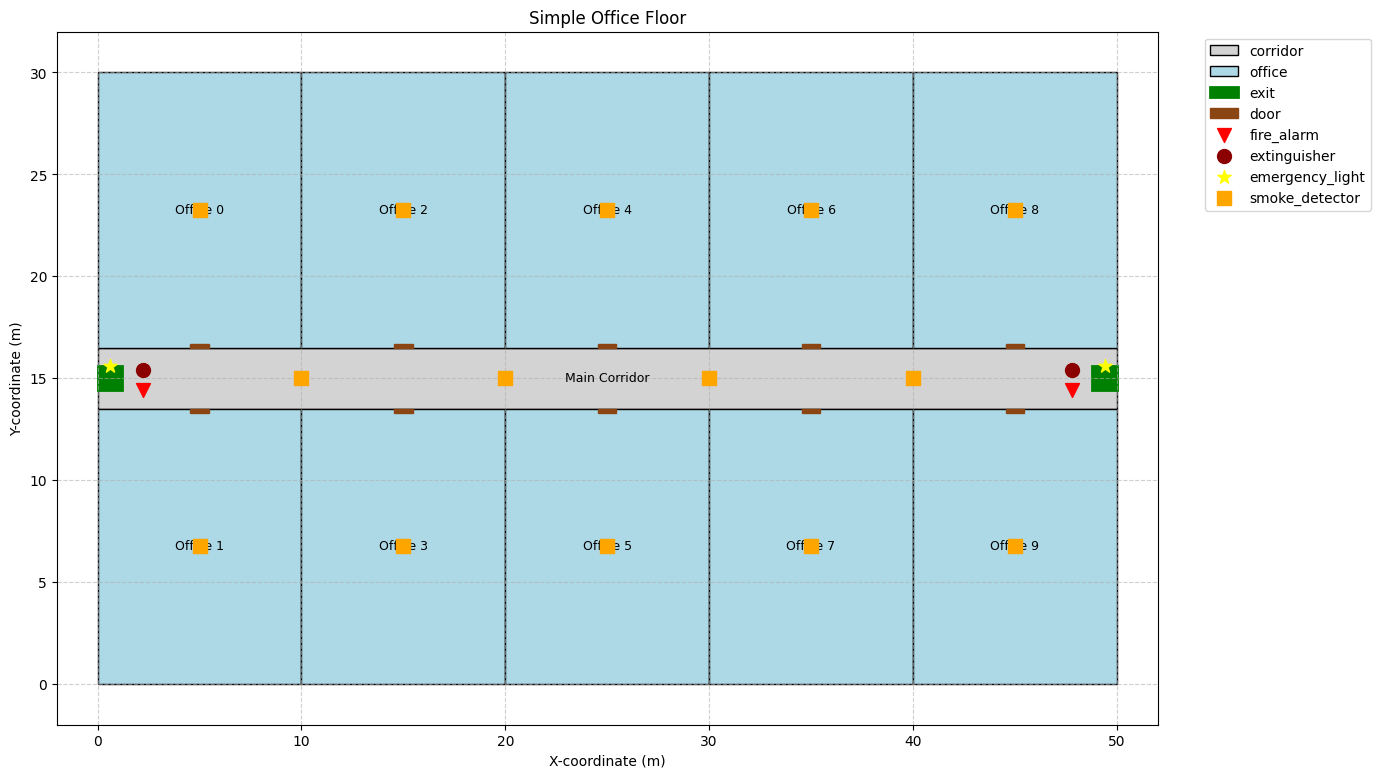
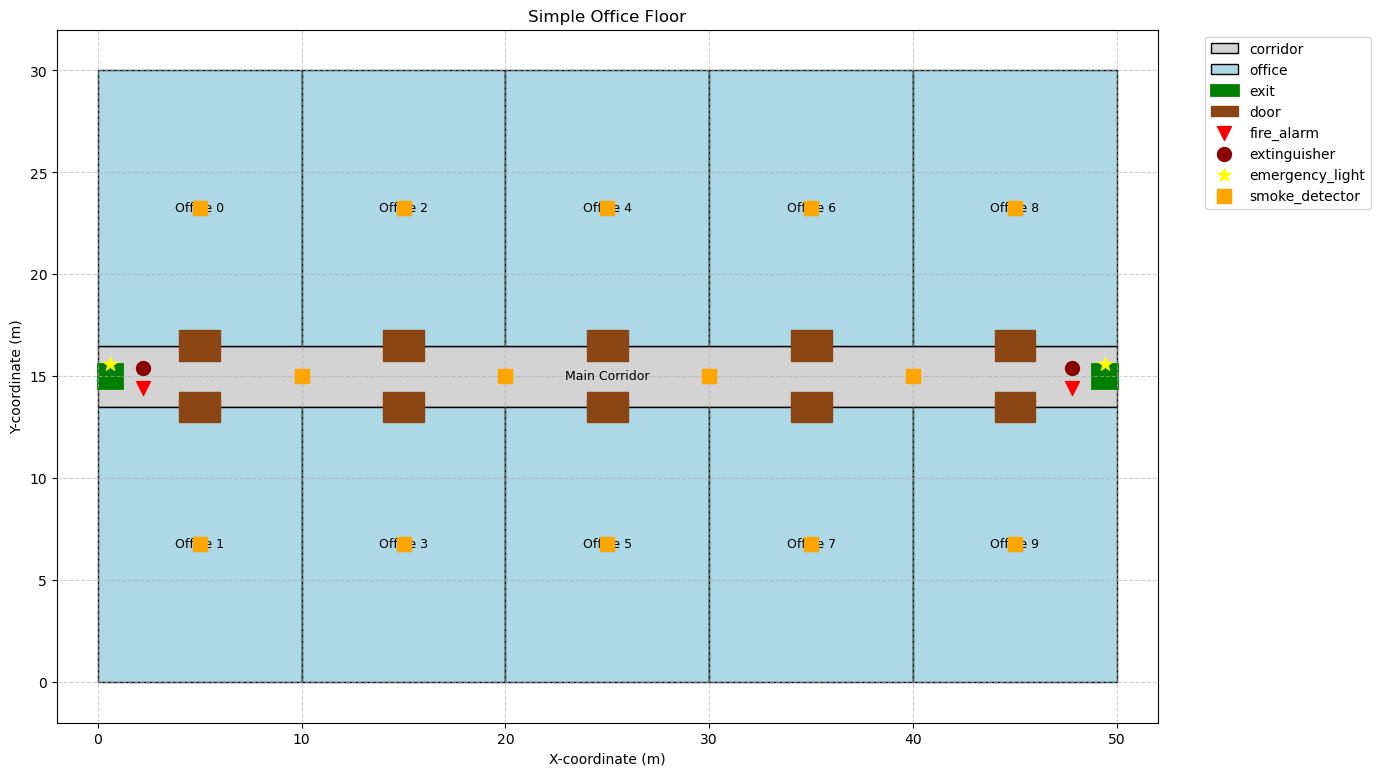
32 direction A* exit finding, basic office map layout

diff --git a/path_visualizer.py b/path_visualizer.py
@@ -1,0 +1,213 @@
+import json
+import matplotlib.pyplot as plt
+import matplotlib.patches as patches
+import heapq
+import math
+import time
+
+
+class Node:
+    """A node class for A* pathfinding"""
+    def __init__(self, parent=None, position=None):
+        self.parent = parent
+        self.position = position
+        self.g = 0
+        self.h = 0
+        self.f = 0
+
+    def __eq__(self, other):
+        return self.position == other.position
+
+    def __lt__(self, other):
+        return self.f < other.f
+
+    def __repr__(self):
+        return f"{self.position} - g: {self.g:.2f} h: {self.h:.2f} f: {self.f:.2f}"
+
+
+def generate_32_directions():
+    """Generates 32 evenly spaced direction offsets around a circle."""
+    directions = []
+    for i in range(32):
+        angle = 2 * math.pi * i / 32
+        dx = round(math.cos(angle))
+        dy = round(math.sin(angle))
+        if (dx, dy) != (0, 0) and (dx, dy) not in directions:
+            directions.append((dx, dy))
+    return directions
+
+
+DIRECTIONS_32 = generate_32_directions()
+
+
+def a_star_search(grid, start, end):
+    """Returns a list of tuples as a path from the given start to the given end in the given grid."""
+
+    start_node = Node(None, start)
+    end_node = Node(None, end)
+
+    open_list = []
+    heapq.heappush(open_list, start_node)
+    closed_list = set()
+    g_costs = {start: 0}
+
+    while open_list:
+        current_node = heapq.heappop(open_list)
+
+        if current_node.position in closed_list:
+            continue
+        closed_list.add(current_node.position)
+
+        if current_node == end_node:
+            path = []
+            current = current_node
+            while current is not None:
+                path.append(current.position)
+                current = current.parent
+            return path[::-1]
+
+        (x, y) = current_node.position
+
+        for dx, dy in DIRECTIONS_32:
+            nx, ny = x + dx, y + dy
+
+            if nx < 0 or ny < 0 or nx >= len(grid) or ny >= len(grid[0]):
+                continue
+            if grid[nx][ny] != 0:
+                continue
+
+            move_cost = math.sqrt(dx*dx + dy*dy)
+            new_g_cost = g_costs.get(current_node.position, float('inf')) + move_cost
+
+            if (nx, ny) not in g_costs or new_g_cost < g_costs[(nx, ny)]:
+                g_costs[(nx, ny)] = new_g_cost
+                h_cost = math.dist((nx, ny), end_node.position)
+                f_cost = new_g_cost + h_cost
+
+                neighbor = Node(current_node, (nx, ny))
+                neighbor.g = new_g_cost
+                neighbor.h = h_cost
+                neighbor.f = f_cost
+
+                heapq.heappush(open_list, neighbor)
+
+    return None
+
+
+def create_grid_from_layout(layout, resolution=20):
+    """Creates a grid representation of the layout for pathfinding."""
+    width = int(layout['floor_dimensions'][0] * resolution)
+    height = int(layout['floor_dimensions'][1] * resolution)
+    grid = [[1 for _ in range(height)] for _ in range(width)]
+
+    for room in layout['rooms']:
+        if room['type'] == 'corridor':
+            x, y = room['position']
+            w, h = room['size']
+            x, y, w, h = int(x*resolution), int(y*resolution), int(w*resolution), int(h*resolution)
+            for i in range(w):
+                for j in range(h):
+                    if 0 <= x+i < width and 0 <= y+j < height:
+                        grid[x+i][y+j] = 0
+
+    for room in layout['rooms']:
+        if room['type'] == 'office':
+            x, y = room['position']
+            w, h = room['size']
+            x, y, w, h = int(x*resolution)+1, int(y*resolution)+1, int(w*resolution)-2, int(h*resolution)-2
+            for i in range(w):
+                for j in range(h):
+                    if 0 <= x+i < width and 0 <= y+j < height:
+                        grid[x+i][y+j] = 0
+
+    if 'doors' in layout:
+        for door in layout['doors']:
+            x, y = door['position']
+            w, h = door['size']
+            x, y, w, h = int(x*resolution), int(y*resolution), int(w*resolution), int(h*resolution)
+            for i in range(w):
+                for j in range(h):
+                    if 0 <= x+i < width and 0 <= y+j < height:
+                        grid[x+i][y+j] = 0
+
+    return grid
+
+
+def visualize_paths(data_file='simple_office.json', resolution=5):
+    """Visualizes the office layout with people and their shortest paths to an exit."""
+    print("Starting visualization process...")
+    start_time = time.time()
+
+    with open(data_file, 'r') as f:
+        layout = json.load(f)
+    print(f"Loaded layout data in {time.time() - start_time:.2f} seconds.")
+
+    print(f"Creating grid with resolution: {resolution}...")
+    grid_start_time = time.time()
+    grid = create_grid_from_layout(layout, resolution)
+    print(f"Grid created in {time.time() - grid_start_time:.2f} seconds.")
+
+    fig, ax = plt.subplots(figsize=(15, 9))
+    ax.set_title(f"{layout['name']} - Evacuation Paths (32-direction A*)")
+    ax.set_xlabel("X-coordinate (m)")
+    ax.set_ylabel("Y-coordinate (m)")
+    floor_width, floor_height = layout['floor_dimensions']
+    ax.set_xlim(-2, floor_width + 2)
+    ax.set_ylim(-2, floor_height + 2)
+    ax.set_aspect('equal', adjustable='box')
+
+    room_colors = {'office': 'lightblue', 'corridor': 'lightgrey'}
+
+    for room in layout['rooms']:
+        x, y = room['position']
+        w, h = room['size']
+        color = room_colors.get(room['type'], 'lightcyan')
+        rect = patches.Rectangle((x, y), w, h, linewidth=1, edgecolor='black', facecolor=color)
+        ax.add_patch(rect)
+        ax.text(x + w/2, y + h/2, room['name'], ha='center', va='center', fontsize=9, wrap=True)
+
+    for exit_obj in layout['exits']:
+        x, y = exit_obj['position']
+        w = exit_obj['width']
+        rect = patches.Rectangle((x, y), w, w, linewidth=2, edgecolor='green', facecolor='green')
+        ax.add_patch(rect)
+
+    if 'doors' in layout:
+        for door in layout['doors']:
+            x, y = door['position']
+            w, h = door['size']
+            rect = patches.Rectangle((x, y), w, h, linewidth=1, edgecolor='saddlebrown', facecolor='saddlebrown')
+            ax.add_patch(rect)
+
+    if 'people' in layout:
+        for i, person in enumerate(layout['people']):
+            print(f"Processing person {i+1}/{len(layout['people'])}...")
+            path_start_time = time.time()
+
+            start_pos = person['position']
+            start_grid_pos = (int(start_pos[0] * resolution), int(start_pos[1] * resolution))
+            ax.scatter(start_pos[0], start_pos[1], marker='o', color='red', s=100, zorder=10)
+
+            nearest_exit = min(layout['exits'], key=lambda e: math.dist(start_pos, e['position']))
+            exit_pos = nearest_exit['position']
+            end_grid_pos = (int(exit_pos[0] * resolution), int(exit_pos[1] * resolution))
+
+            path = a_star_search(grid, start_grid_pos, end_grid_pos)
+            print(f"  Pathfinding complete in {time.time() - path_start_time:.2f} seconds.")
+
+            if path:
+                path_x = [p[0] / resolution for p in path]
+                path_y = [p[1] / resolution for p in path]
+                ax.plot(path_x, path_y, marker='.', color='red', zorder=5)
+                print(f"  Path found with length {len(path)}")
+            else:
+                print("  No path found.")
+
+    plt.grid(True, linestyle='--', alpha=0.6)
+    plt.savefig('office_with_paths_32dir.png', bbox_inches='tight')
+    plt.close(fig)
+    print(f"Visualization saved. Total time: {time.time() - start_time:.2f} seconds.")
+
+
+if __name__ == "__main__":
+    visualize_paths()

diff --git a/simple_office_generator.py b/simple_office_generator.py
@@ -1,12 +1,36 @@
 import json
 import math
+import random
+
+def add_people_to_layout(layout, num_people):
+    """Adds a number of people to random offices in the layout."""
+    offices = [r for r in layout['rooms'] if r['type'] == 'office']
+    if not offices:
+        return
+
+    for i in range(num_people):
+        person_id = f"PERSON_{i+1}"
+        room = random.choice(offices)
+        
+        # Place person randomly within the room
+        room_x, room_y = room['position']
+        room_w, room_h = room['size']
+        pos_x = random.uniform(room_x + 1, room_x + room_w - 1)
+        pos_y = random.uniform(room_y + 1, room_y + room_h - 1)
+
+        layout['people'].append({
+            'id': person_id,
+            'start_room': room['id'],
+            'position': (pos_x, pos_y)
+        })
 
 def generate_simple_office_layout(
     floor_width=50.0,
     floor_height=30.0,
     corridor_width=3.0,
     num_offices_per_side=5,
-    door_width = 0.9
+    door_width = 2,
+    num_people=5
 ):
     """
     Generates a simple, well-structured office layout from scratch.
@@ -22,10 +46,11 @@ def generate_simple_office_layout(
     3.  A door is added to each office, connecting it to the corridor.
     4.  Two exits are placed at each end of the central corridor.
     5.  Safety equipment is distributed logically.
+    6.  A specified number of people are randomly placed in offices.
 
     Returns:
         dict: A dictionary containing the building's name, floor dimensions,
-              and lists of rooms, doors, exits, and safety equipment.
+              and lists of rooms, doors, exits, safety equipment, and people.
     """
     layout = {
         'name': 'Simple Office Floor',
@@ -33,7 +58,8 @@ def generate_simple_office_layout(
         'rooms': [],
         'doors': [],
         'exits': [],
-        'safety_equipment': []
+        'safety_equipment': [],
+        'people': []
     }
 
     # Add central corridor
@@ -68,7 +94,7 @@ def generate_simple_office_layout(
             'id': f'DOOR_OFFICE_{room_id}',
             'room_id': f'OFFICE_{room_id}',
             'position': (office_x + (office_w - door_width)/2, office_y),
-            'size': (door_width, 0.2) # thin rectangle for door
+            'size': (door_width, 0.5) # thin rectangle for door
         })
         room_id += 1
 
@@ -88,7 +114,7 @@ def generate_simple_office_layout(
         layout['doors'].append({
             'id': f'DOOR_OFFICE_{room_id}',
             'room_id': f'OFFICE_{room_id}',
-            'position': (office_x + (office_w - door_width)/2, office_h - 0.2),
+            'position': (office_x + (office_w - door_width)/2, office_h-0.05),
             'size': (door_width, 0.2) # thin rectangle for door
         })
         room_id += 1
@@ -149,7 +175,7 @@ def generate_simple_office_layout(
                     'position': (i * 10, ry + rh/2)
                 })
 
-
+    add_people_to_layout(layout, num_people)
     return layout
 
 if __name__ == "__main__":
